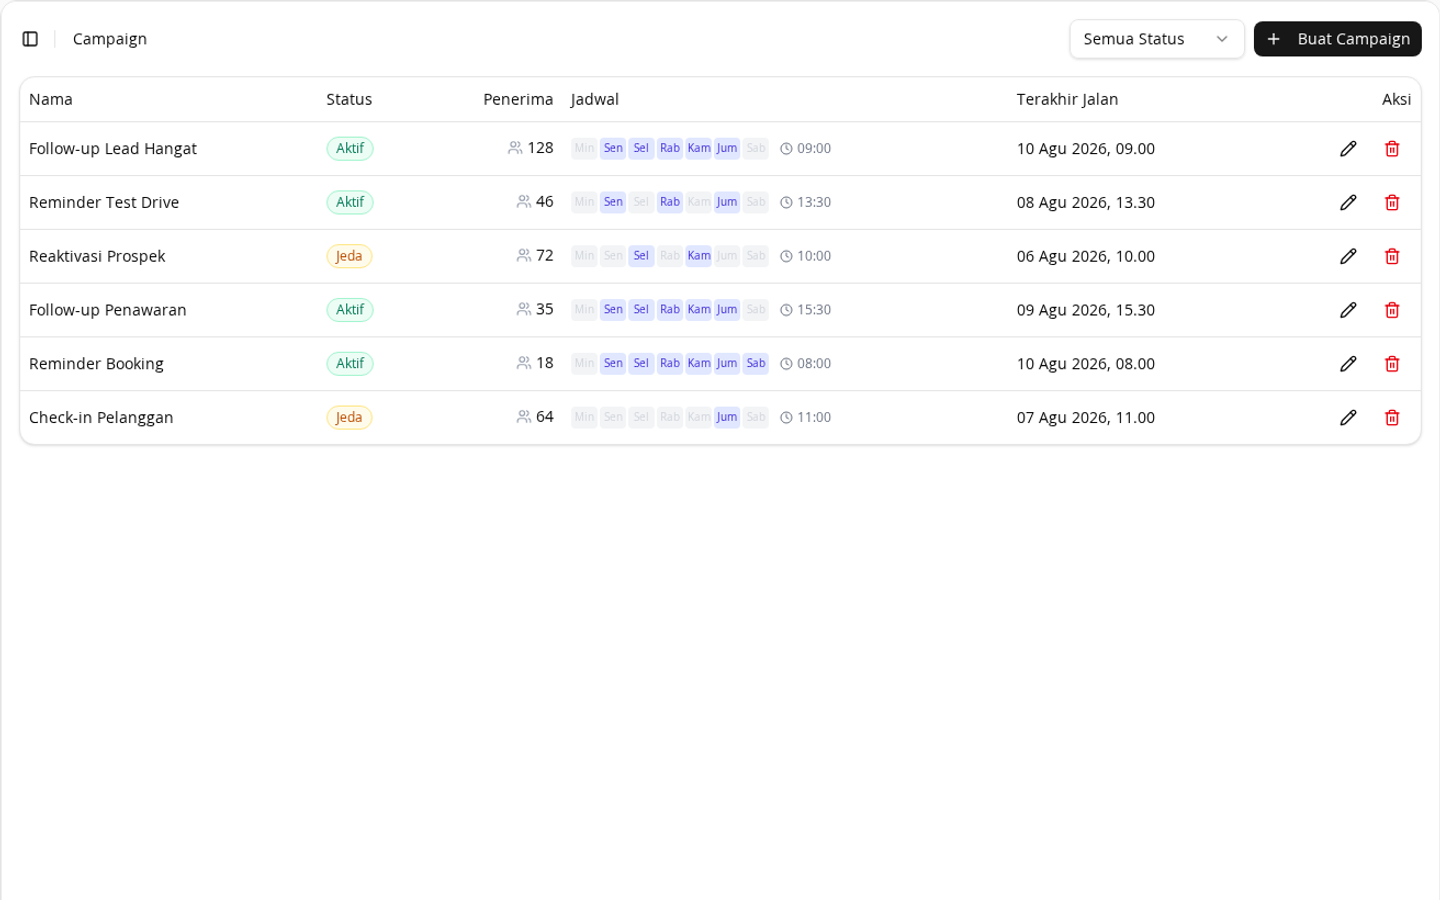
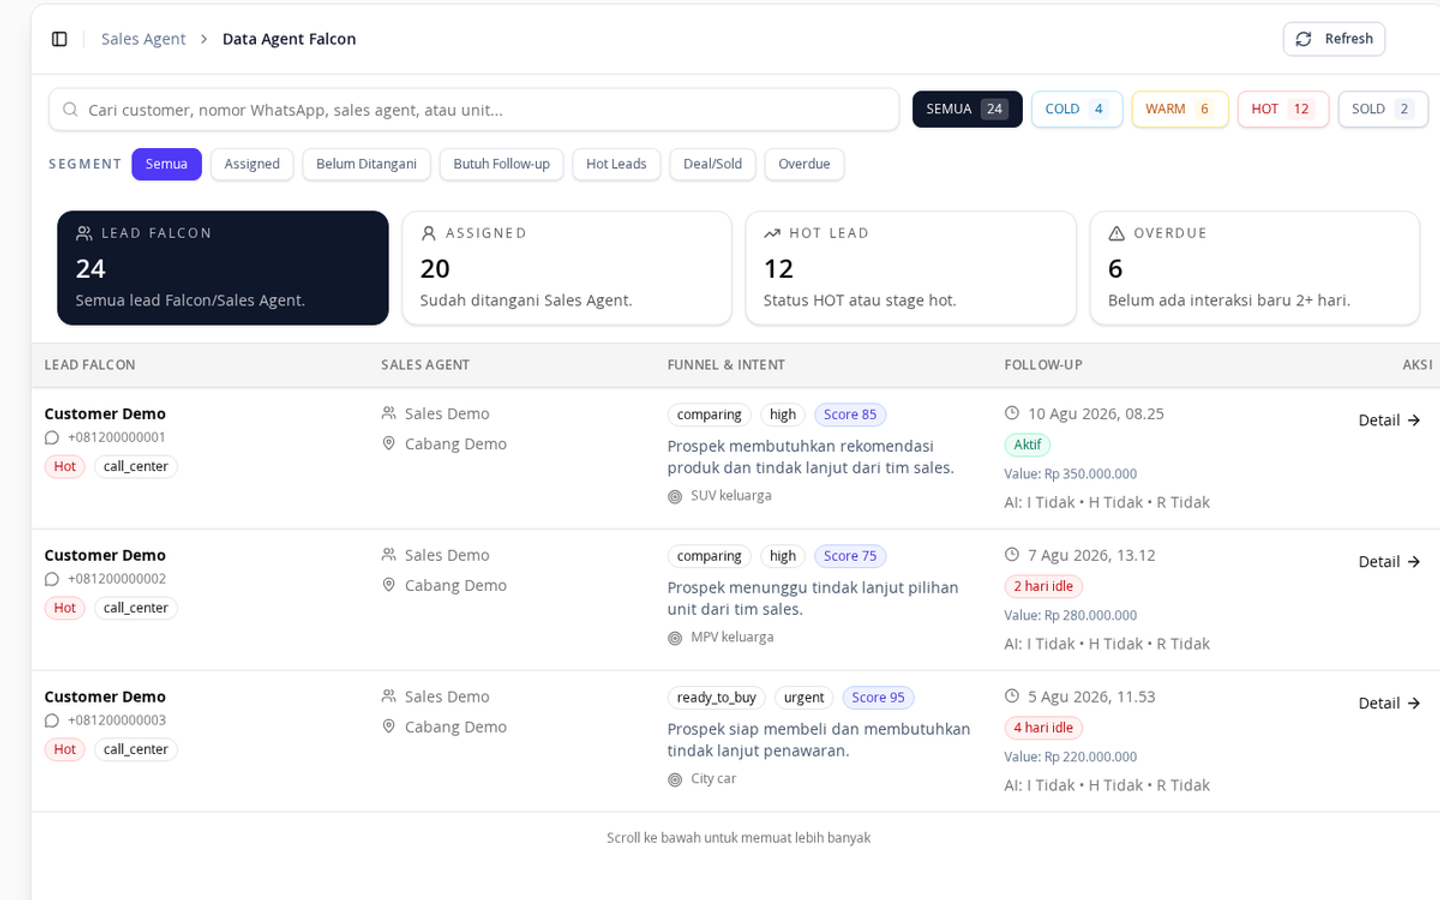
fix: selaraskan fitur follow-up dengan Data Agent Falcon

diff --git a/fitur/feature-page.js b/fitur/feature-page.js
@@ -668,9 +668,9 @@
       );
     } else if (slug === "automasi-workflow" && index === 1) {
       preview = captured(
-        "workflow-auto-follow-public.png?v=20260810-workflow-campaign-1",
-        "Autopilot CRM · Campaign",
-        "Campaign follow-up memperlihatkan status, penerima, jadwal aktif, dan waktu eksekusi terakhir dalam satu halaman.",
+        "workflow-auto-follow-public.png?v=20260810-workflow-data-agent-1",
+        "Sales Agent · Data Agent Falcon",
+        "Data Agent Falcon memperlihatkan lead aktif, kebutuhan follow-up, status overdue, dan interaksi terakhir dalam satu halaman.",
       );
     } else if (slug === "automasi-workflow" && index === 2) {
       preview = captured(

diff --git a/fitur/automasi-workflow.html b/fitur/automasi-workflow.html
@@ -66,7 +66,7 @@
 
     <script>window.__FEATURE_SLUG__ = "automasi-workflow";</script>
     <script src="./features-data.js?v=20260810-workflow-3"></script>
-    <script src="./feature-page.js?v=20260810-workflow-campaign-1"></script>
+    <script src="./feature-page.js?v=20260810-workflow-data-agent-1"></script>
     <script src="../script.js?v=20260806-2"></script>
   </body>
 </html>
